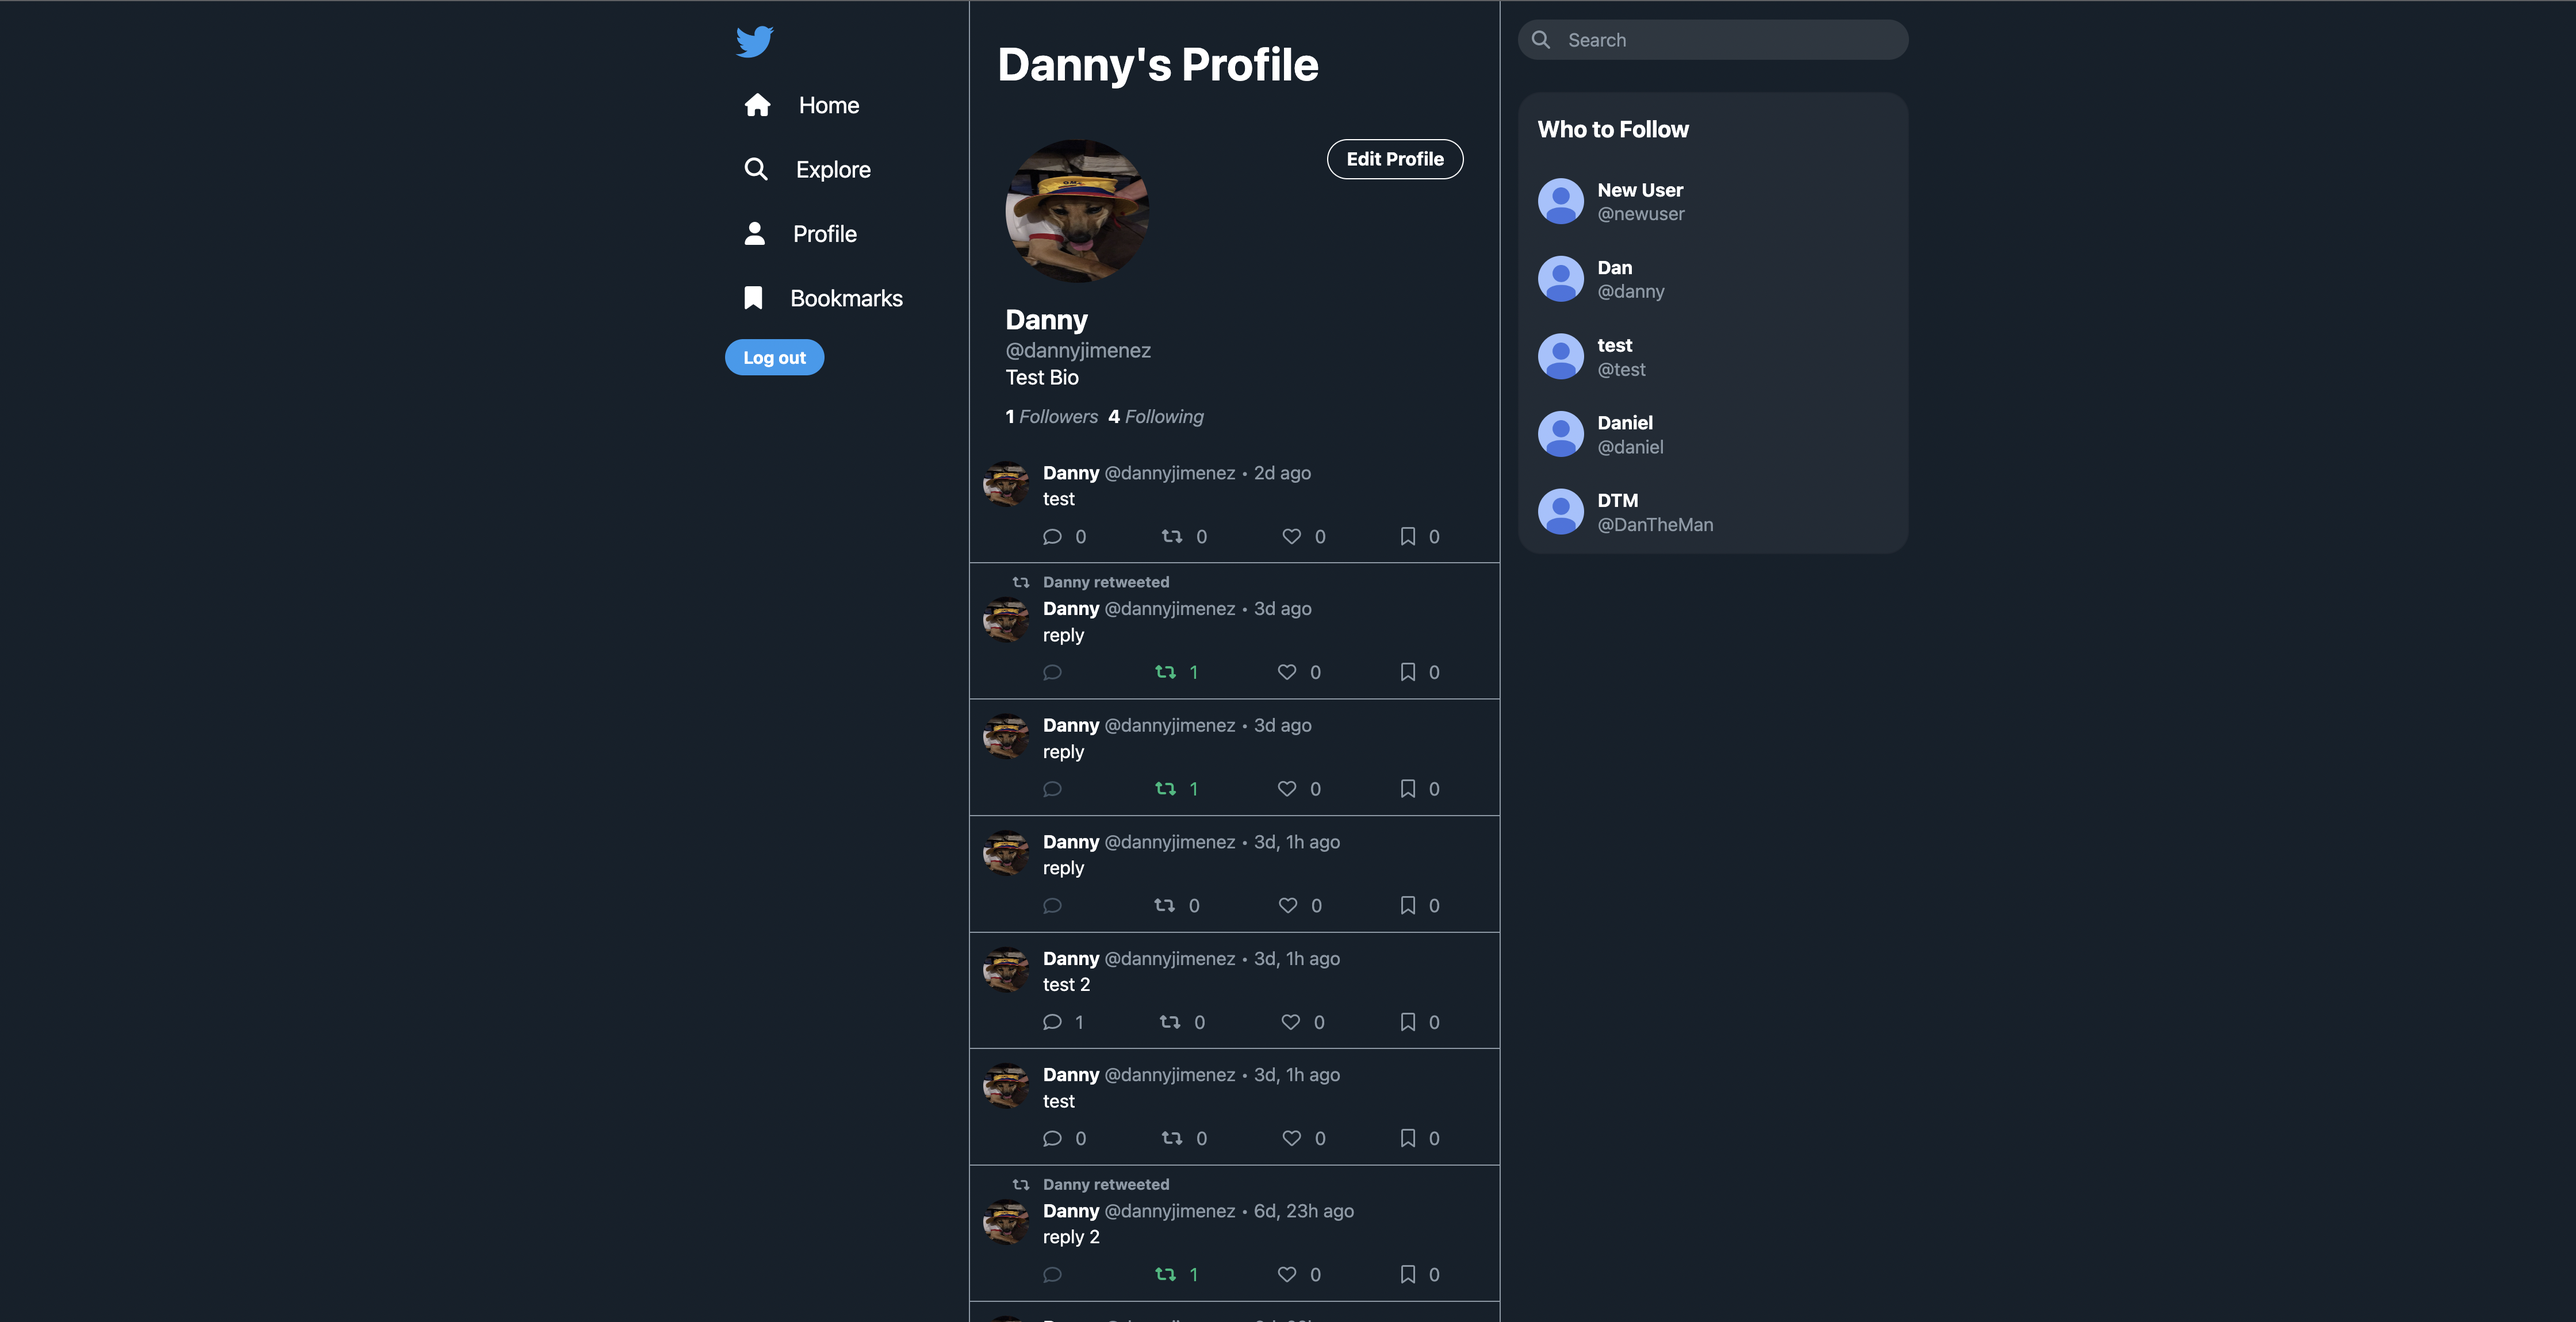
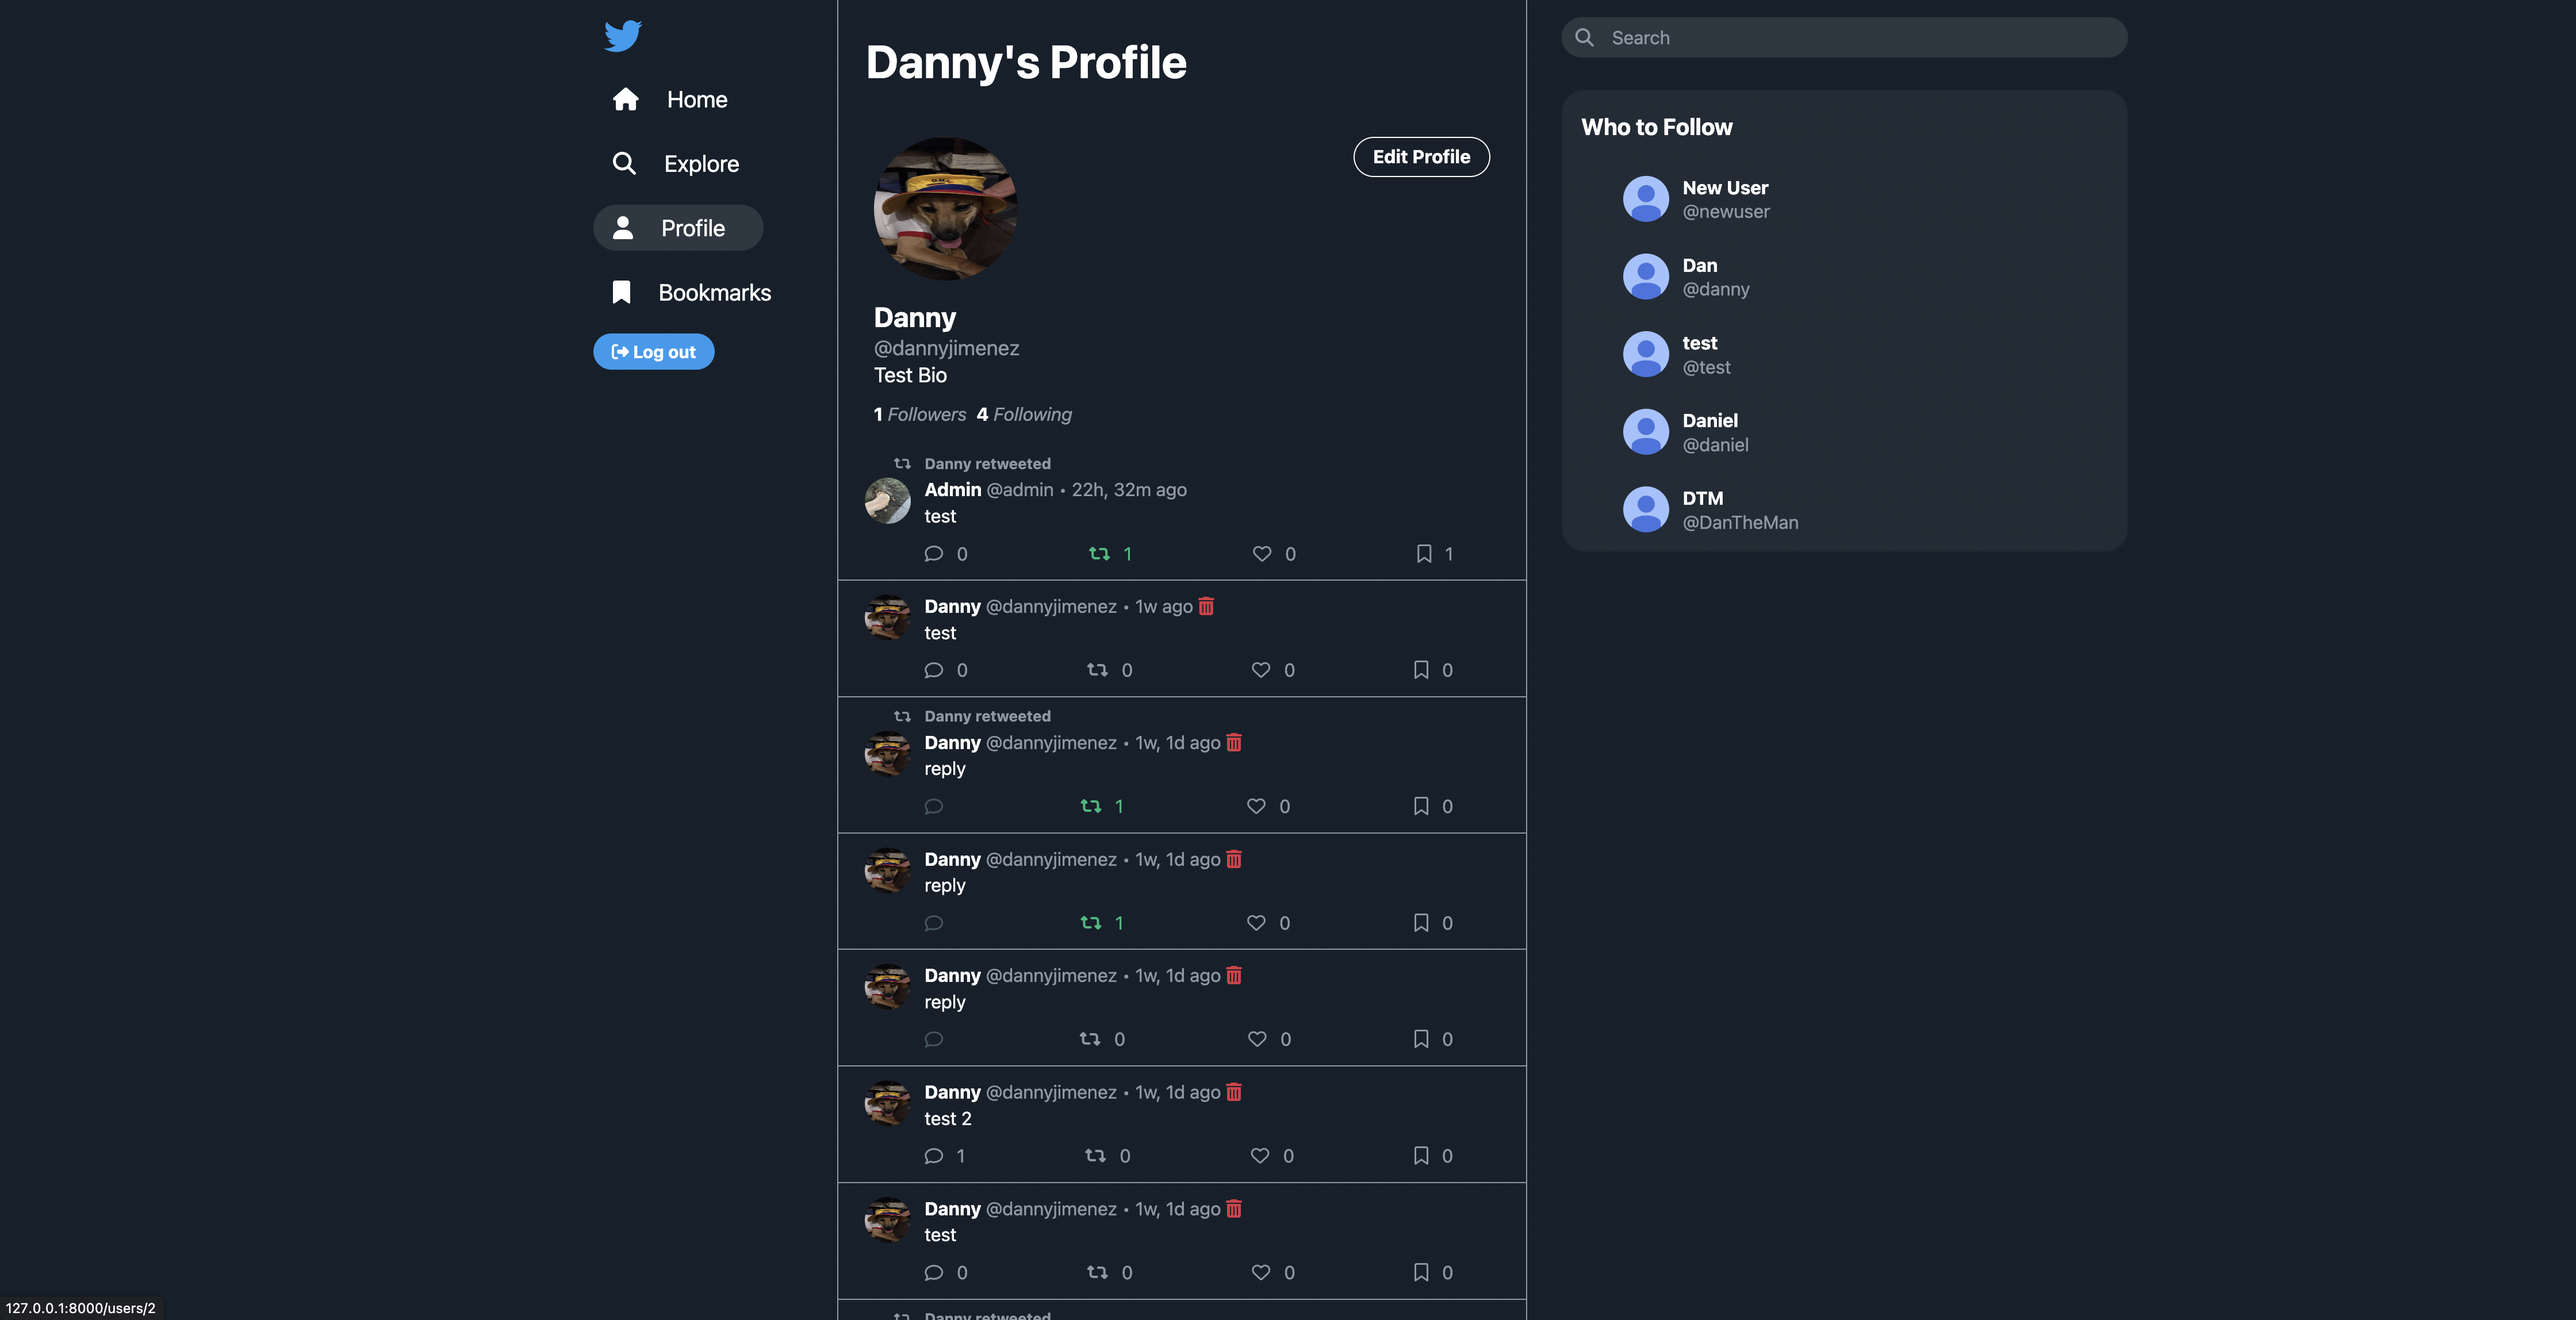
created Tweets API with django rest framework

diff --git a/static/templates/partials/tweet.html b/static/templates/partials/tweet.html
@@ -36,6 +36,10 @@
                     </a>
                     &nbsp;
                     <p> • {{tweet.parent.created_at|timesince}} ago</p>
+                    &nbsp;
+                    {% if request.user.username == tweet.parent.user.profile.user.username %}
+                        <a href="{% url 'delete_tweet' tweet.id %}"><i class="fas fa-trash-alt" style="color: #dc3545;"></i></a>
+                    {% endif %}
                 </div>
 
                 <a href="{% url 'show_tweet' tweet.parent.id %}" id="show-tweet-link">
@@ -80,6 +84,8 @@
                             <p class="count">{{tweet.parent.bookmarks_count}}</p>
                         {% endif %} 
                     </div>
+
+                    
                 </div>
                 
             </div>
@@ -113,6 +119,10 @@
                     </a>
                     &nbsp;
                     <p> • {{tweet.created_at|timesince}} ago</p>
+                    &nbsp;
+                    {% if request.user.username == tweet.user.profile.user.username %}
+                        <a href="{% url 'delete_tweet' tweet.id %}"><i class="fas fa-trash-alt" style="color: #dc3545;"></i></a>
+                    {% endif %}
                 </div>
 
                 <a href="{% url 'show_tweet' tweet.id %}" id="show-tweet-link">

diff --git a/static/templates/navbar.html b/static/templates/navbar.html
@@ -1,15 +1,6 @@
 {% load static %}
 <nav class="navbar navbar-expand" data-bs-theme="dark">
     <div class="container flex-column">
-      {% comment %} <a class="navbar-brand" href="{% url 'home' %}">
-        <img src="https://upload.wikimedia.org/wikipedia/commons/thumb/6/6f/Logo_of_Twitter.svg/512px-Logo_of_Twitter.svg.png?20220821125553" alt="" width="34" height="28" >
-      </a>
-      <button class="navbar-toggler" type="button" data-bs-toggle="collapse" data-bs-target="#navbarSupportedContent" aria-controls="navbarSupportedContent" aria-expanded="false" aria-label="Toggle navigation">
-        <span class="navbar-toggler-icon">
-          <img src="https://upload.wikimedia.org/wikipedia/commons/thumb/6/6f/Logo_of_Twitter.svg/512px-Logo_of_Twitter.svg.png?20220821125553" alt="" width="34" height="28" >
-        </span>
-      </button> {% endcomment %}
-
         <a class="navbar-brand" href="{% url 'home' %}">
           <button class="btn btn-link">
             <img src="https://upload.wikimedia.org/wikipedia/commons/thumb/6/6f/Logo_of_Twitter.svg/512px-Logo_of_Twitter.svg.png?20220821125553" alt="" width="34" height="28" >
@@ -80,9 +71,6 @@
                 </li>
               {% endif %}
           </ul>
-          
-
-          
         </div>
       </div>
 </nav>

diff --git a/tweets/templates/show_tweet.html b/tweets/templates/show_tweet.html
@@ -256,14 +256,13 @@
                                             <p class="count">{{reply.bookmarks_count}}</p>
                                         {% endif %} 
                                     </div>
+                                    
                                 </div>
                             </div>
                         </div>
                     </div>	
                 {% endfor %}
             {% endif %}
-
-   
     </div>
 </div>
 

diff --git a/tweets/models.py b/tweets/models.py
@@ -1,14 +1,6 @@
 from django.db import models
 from django.contrib.auth.models import User
 
-""" TODO:
-    [ ] fix to current timezone
-    [ ] tweak error message when going over character limit
-    [X] add likes
-    [X] add RTs
-    [ ] add comments
-"""
-
 class Tweet(models.Model):
     parent = models.ForeignKey("self", null=True, blank=True, on_delete=models.CASCADE)
     user = models.ForeignKey(User, on_delete=models.CASCADE)
@@ -16,8 +8,8 @@ class Tweet(models.Model):
     created_at = models.DateTimeField(auto_now_add=True) 
     likes = models.ManyToManyField(User, related_name='tweet_likes', blank=True)
     bookmarks = models.ManyToManyField(User, related_name='tweet_bookmarks', blank=True)
-    reply_to = models.ForeignKey("self", related_name='replied_to', null=True, blank=True, on_delete=models.CASCADE) # look back on CASCADE option
-
+    reply_to = models.ForeignKey("self", related_name='replied_to', null=True, blank=True, on_delete=models.CASCADE) 
+    
     def likes_count(self):
         return self.likes.count()
     
@@ -28,6 +20,9 @@ class Tweet(models.Model):
         return Tweet.objects.filter(parent=self).count()
     
     def retweeters(self):
+        '''
+        Returns list of users that retweeted this tweet
+        '''
         qs = Tweet.objects.filter(parent=self)
         user_obj_list = []
         for obj in qs:

diff --git a/users/views.py b/users/views.py
@@ -89,16 +89,13 @@ def logout_view(request):
 
 def edit_profile(request):
     if request.user.is_authenticated:
-        current_user = User.objects.get(id=request.user.id) # could probably get rid of this
+        current_user = User.objects.get(id=request.user.id)
         profile_user = Profile.objects.get(user__id=request.user.id)
         
         # get forms
-        # user_form = SignUpForm(request.POST or None, request.FILES or None, instance=current_user)
         profile_form = EditProfileForm(request.POST or None, request.FILES or None, instance=profile_user)
 
-        # if user_form.is_valid() and profile_form.is_valid():
         if profile_form.is_valid():
-            # user_form.save()
             profile_form.save()
 
             login(request, current_user)
@@ -109,7 +106,6 @@ def edit_profile(request):
             header = 'Finish Profile'
         else:
             header = 'Edit Profile'
-        # return render(request, 'edit_profile.html', {'user_form':user_form, 'profile_form':profile_form})
         return render(request, 'edit_profile.html', {'profile_form':profile_form, 'header':header})
     else:
         messages.success(request, ("You must be logged in to view that page"))

diff --git a/api/views.py b/api/views.py
@@ -1,0 +1,19 @@
+from tweets.models import Tweet
+from .serializers import TweetSerializer
+from rest_framework.generics import ListCreateAPIView, RetrieveUpdateDestroyAPIView
+from rest_framework import permissions
+from .permissions import IsOwnerOrReadOnly
+
+class TweetList(ListCreateAPIView):
+    queryset = Tweet.objects.all()
+    serializer_class = TweetSerializer
+    permission_classes = [permissions.IsAuthenticatedOrReadOnly]
+
+    def perform_create(self, serializer):
+        serializer.save(user=self.request.user)
+
+class TweetDetail(RetrieveUpdateDestroyAPIView):
+    queryset = Tweet.objects.all()
+    serializer_class = TweetSerializer
+    permission_classes = [permissions.IsAuthenticatedOrReadOnly, IsOwnerOrReadOnly]
+

diff --git a/api/permissions.py b/api/permissions.py
@@ -1,0 +1,16 @@
+from rest_framework import permissions
+
+
+class IsOwnerOrReadOnly(permissions.BasePermission):
+    """
+    Custom permission to only allow owners of an object to edit it.
+    """
+
+    def has_object_permission(self, request, view, obj):
+        # Read permissions are allowed to any request,
+        # so we'll always allow GET, HEAD or OPTIONS requests.
+        if request.method in permissions.SAFE_METHODS:
+            return True
+
+        # Write permissions are only allowed to the owner of the snippet.
+        return obj.user == request.user

diff --git a/social_media_app/urls.py b/social_media_app/urls.py
@@ -7,8 +7,10 @@ urlpatterns = [
     path('admin/', admin.site.urls),
     path('', include('tweets.urls')),
     path('users/', include('users.urls')),
+    path('api/', include('api.urls')),
 ]  
 
 # if settings.DEBUG:
 urlpatterns += static(settings.MEDIA_URL, 
                 document_root=settings.MEDIA_ROOT)
+

diff --git a/api/serializers.py b/api/serializers.py
@@ -1,0 +1,8 @@
+from rest_framework import serializers
+from tweets.models import Tweet
+
+class TweetSerializer(serializers.ModelSerializer):
+    class Meta:
+        model = Tweet
+        fields = '__all__'
+        read_only_fields = ['user', 'likes', 'bookmarks']

diff --git a/api/urls.py b/api/urls.py
@@ -1,0 +1,7 @@
+from django.urls import path
+from .views import TweetList, TweetDetail
+
+urlpatterns = [
+    path('', TweetList.as_view()),
+    path('<int:pk>', TweetDetail.as_view()),
+]

diff --git a/social_media_app/settings.py b/social_media_app/settings.py
@@ -31,6 +31,8 @@ INSTALLED_APPS = [
     'bootstrap5',
     'crispy_forms',
     'crispy_bootstrap5',
+    'rest_framework',
+    'api',
     'tweets',
     'users'
 ]
